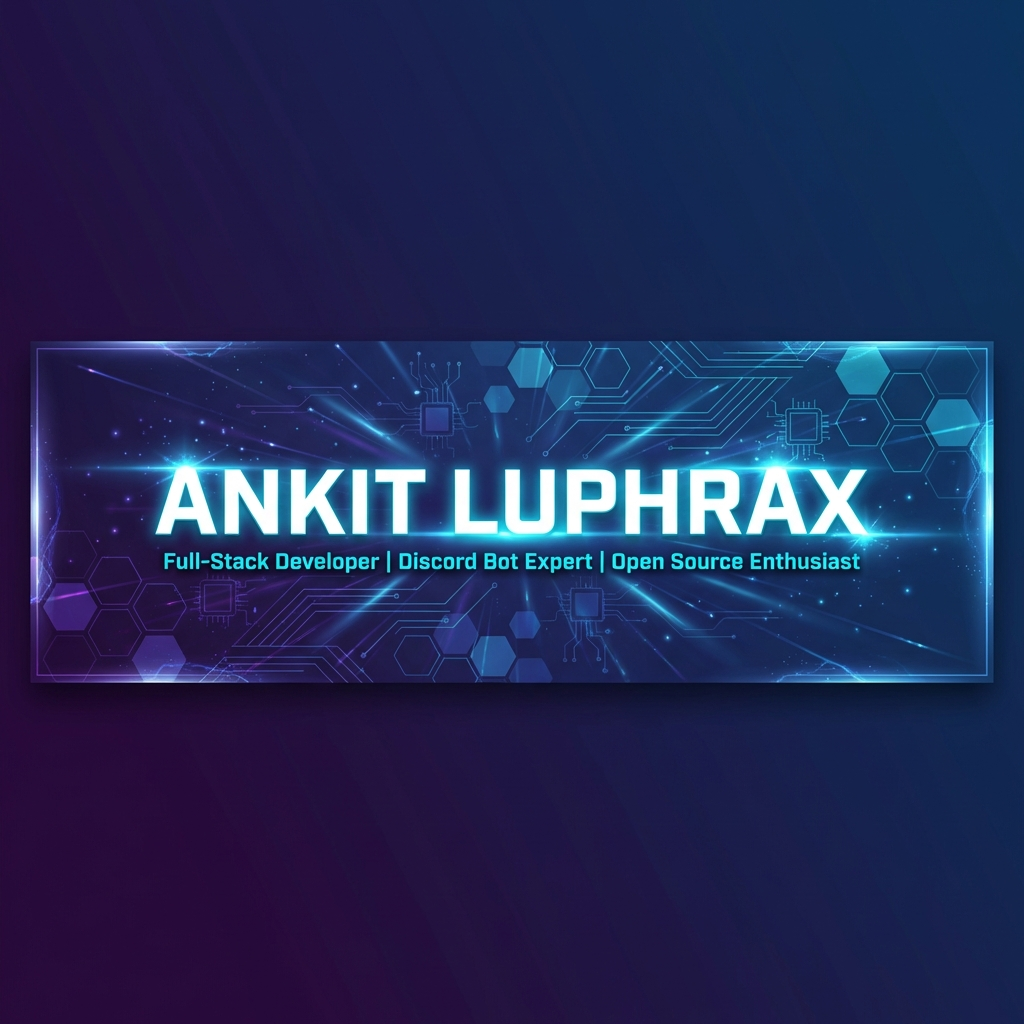
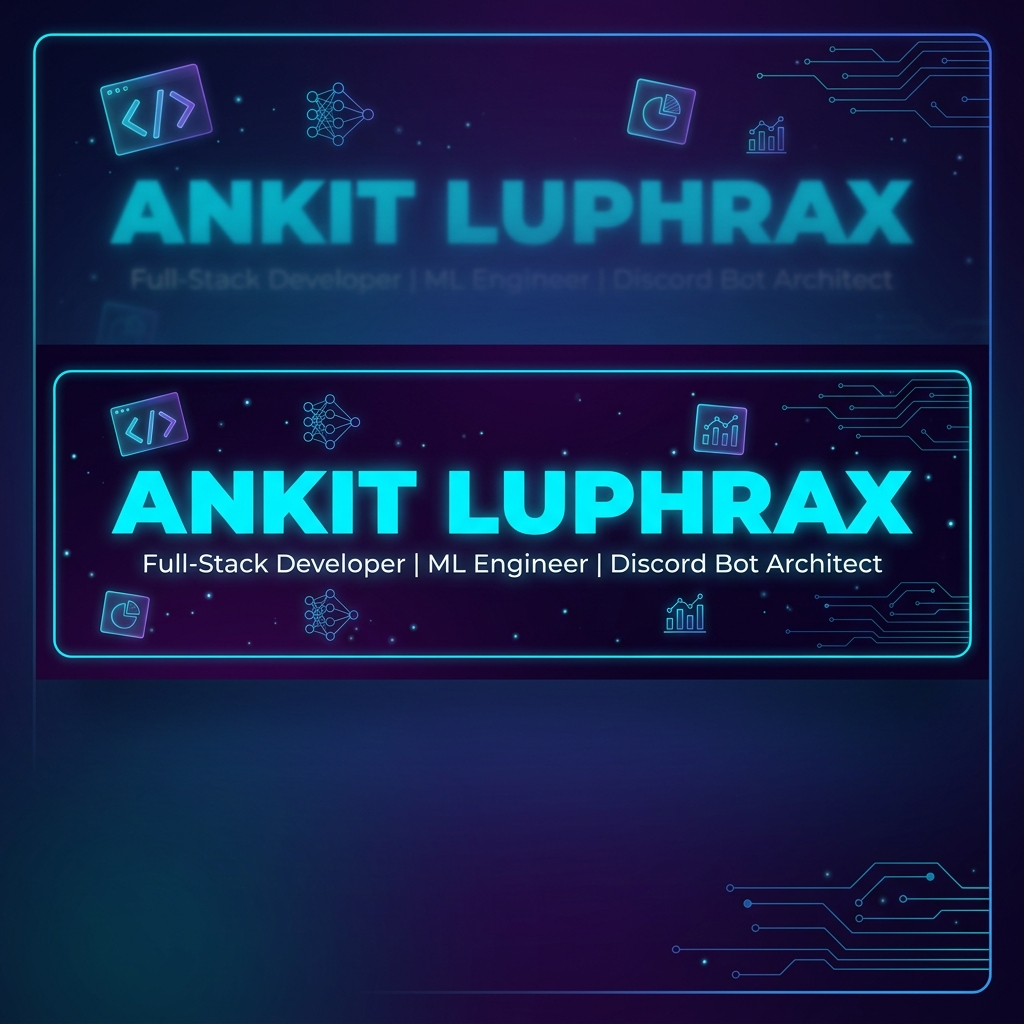
upgrade: new header, ML achievements, data science projects & 2026 roadmap

diff --git a/README.md b/README.md
@@ -4,7 +4,7 @@
 
 <div align="center">
   
-  [![Typing SVG](https://readme-typing-svg.demolab.com?font=Fira+Code&weight=600&size=28&duration=3000&pause=1000&color=00D9FF&center=true&vCenter=true&width=600&lines=Full-Stack+Developer+💻;Discord+Bot+Expert+🤖;Open+Source+Enthusiast+🚀;Building+Amazing+Things!+✨)](https://git.io/typing-svg)
+  [![Typing SVG](https://readme-typing-svg.demolab.com?font=Fira+Code&weight=600&size=28&duration=3000&pause=1000&color=00D9FF&center=true&vCenter=true&width=700&lines=Full-Stack+Developer+%F0%9F%92%BB;ML+Engineer+%F0%9F%A7%A0;Discord+Bot+Architect+%F0%9F%A4%96;Data+Science+Explorer+%F0%9F%93%8A;Building+the+Future+with+Code+%E2%9C%A8)](https://git.io/typing-svg)
   
   <p>
     <a href="https://github.com/AnkitLuphraX"><img src="https://img.shields.io/github/followers/AnkitLuphraX?label=Followers&style=for-the-badge&color=00D9FF&labelColor=1a0b2e" alt="GitHub Followers"/></a>
@@ -18,29 +18,80 @@
 
 ## 👨💻 About Me
 
-```javascript
-const ankit = {
-    location: "India 🇮🇳",
-    role: "Full-Stack Developer & Discord Bot Specialist",
-    currentFocus: "Building enterprise-grade Discord bots",
-    learning: ["Advanced Node.js", "System Architecture", "Cloud Technologies"],
-    hobbies: ["Coding", "Problem Solving", "Open Source"],
-    funFact: "I turn coffee into code ☕ → 💻",
-    
-    workingOn: {
-        project: "Next-Gen Discord Bot System",
-        technologies: ["Discord.js", "Node.js", "MongoDB"]
-    },
-    
-    askMeAbout: ["Discord Bots", "Web Dev", "APIs", "Databases"]
-};
+```python
+class AnkitLuphraX:
+    def __init__(self):
+        self.location = "India 🇮🇳"
+        self.roles = [
+            "Full-Stack Developer",
+            "ML Engineer",
+            "Discord Bot Architect"
+        ]
+        self.current_focus = "Machine Learning & Intelligent Systems"
+        self.learning = [
+            "Deep Learning", "MLOps",
+            "Cloud Architecture", "System Design"
+        ]
+        
+        self.active_projects = {
+            "quindent": "Enterprise-grade Discord Bot System",
+            "data_science": "Data Cleaning & Predictive Modeling",
+            "web": "Modern Web Applications"
+        }
+        
+    def say_hi(self):
+        print("Thanks for dropping by! Let's build something epic 🚀")
+
+
+me = AnkitLuphraX()
+me.say_hi()
 ```
 
-- 🔭 Currently working on **advanced Discord bot systems**
-- 🌱 Learning **cloud deployment & scalable architectures**
-- 💬 Ask me about **Discord.js, Node.js, MongoDB, Web Development**
-- 👯 Looking to collaborate on **open source projects**
-- ⚡ Fun fact: **I love automating everything!**
+- 🔭 Currently working on **ML pipelines & enterprise Discord bots**
+- 🧠 Expanding into **Machine Learning, Data Science & AI**
+- 🌱 Learning **scikit-learn, TensorFlow & cloud deployment**
+- 💬 Ask me about **Discord.js, Python, ML, Node.js, Web Dev**
+- 👯 Looking to collaborate on **open source & data-driven projects**
+- ⚡ Fun fact: **I automate everything — even my learning!**
+
+---
+
+## 🏆 Recent Achievements & Milestones
+
+<div align="center">
+
+<table>
+<tr>
+<td width="50%">
+
+### 📊 Data Science & ML
+- ✅ Completed **Data Cleaning & Visualization** project
+  - Cleaned 1500+ records with missing values, duplicates & outliers
+  - Built 10+ professional charts & interactive dashboards
+- ✅ Built **Predictive ML Models** for customer churn
+  - Trained Logistic Regression, Decision Tree & Random Forest
+  - Achieved **70.2% AUC** with ROC curve analysis
+  - Created confusion matrices, feature importance & PR curves
+- 🧪 Hands-on with Pandas, NumPy, Matplotlib, Seaborn, Scikit-learn
+
+</td>
+<td width="50%">
+
+### 🤖 Discord Bot Engineering
+- ✅ Built **Quindent** — enterprise-grade Discord bot
+  - Advanced Antinuke security system with modular config
+  - God-Tier music system with Poru engine + 24/7 mode
+  - Ticket system, moderation suite & giveaway system
+  - Canvas-rendered "Now Playing" cards
+- ✅ Separated Quindent Music into standalone bot
+- ✅ Built **premium landing page** with live stats API
+- 🔧 Turso database integration for persistence
+
+</td>
+</tr>
+</table>
+
+</div>
 
 ---
 
@@ -48,36 +99,41 @@ const ankit = {
 
 <div align="center">
 
-### Languages
+### 💻 Languages
 ![JavaScript](https://img.shields.io/badge/JavaScript-F7DF1E?style=for-the-badge&logo=javascript&logoColor=black)
-![TypeScript](https://img.shields.io/badge/TypeScript-3178C6?style=for-the-badge&logo=typescript&logoColor=white)
 ![Python](https://img.shields.io/badge/Python-3776AB?style=for-the-badge&logo=python&logoColor=white)
+![TypeScript](https://img.shields.io/badge/TypeScript-3178C6?style=for-the-badge&logo=typescript&logoColor=white)
 ![HTML5](https://img.shields.io/badge/HTML5-E34F26?style=for-the-badge&logo=html5&logoColor=white)
 ![CSS3](https://img.shields.io/badge/CSS3-1572B6?style=for-the-badge&logo=css3&logoColor=white)
 
-### Frameworks & Libraries
+### ⚙ Frameworks & Libraries
 ![Node.js](https://img.shields.io/badge/Node.js-339933?style=for-the-badge&logo=node.js&logoColor=white)
 ![Discord.js](https://img.shields.io/badge/Discord.js-5865F2?style=for-the-badge&logo=discord&logoColor=white)
 ![Express.js](https://img.shields.io/badge/Express.js-000000?style=for-the-badge&logo=express&logoColor=white)
 ![React](https://img.shields.io/badge/React-61DAFB?style=for-the-badge&logo=react&logoColor=black)
 ![Next.js](https://img.shields.io/badge/Next.js-000000?style=for-the-badge&logo=next.js&logoColor=white)
 
-### Databases & Tools
+### 🧠 Data Science & ML
+![Pandas](https://img.shields.io/badge/Pandas-150458?style=for-the-badge&logo=pandas&logoColor=white)
+![NumPy](https://img.shields.io/badge/NumPy-013243?style=for-the-badge&logo=numpy&logoColor=white)
+![Scikit--Learn](https://img.shields.io/badge/Scikit--Learn-F7931E?style=for-the-badge&logo=scikit-learn&logoColor=white)
+![Matplotlib](https://img.shields.io/badge/Matplotlib-11557C?style=for-the-badge&logo=matplotlib&logoColor=white)
+![Seaborn](https://img.shields.io/badge/Seaborn-3776AB?style=for-the-badge&logo=python&logoColor=white)
+
+### 🗄 Databases
 ![MongoDB](https://img.shields.io/badge/MongoDB-47A248?style=for-the-badge&logo=mongodb&logoColor=white)
 ![MySQL](https://img.shields.io/badge/MySQL-4479A1?style=for-the-badge&logo=mysql&logoColor=white)
 ![PostgreSQL](https://img.shields.io/badge/PostgreSQL-4169E1?style=for-the-badge&logo=postgresql&logoColor=white)
 ![Redis](https://img.shields.io/badge/Redis-DC382D?style=for-the-badge&logo=redis&logoColor=white)
+![Turso](https://img.shields.io/badge/Turso-4FF8D2?style=for-the-badge&logo=turso&logoColor=black)
 
-### DevOps & Cloud
+### 🚀 DevOps & Tools
 ![Git](https://img.shields.io/badge/Git-F05032?style=for-the-badge&logo=git&logoColor=white)
 ![GitHub](https://img.shields.io/badge/GitHub-181717?style=for-the-badge&logo=github&logoColor=white)
 ![Docker](https://img.shields.io/badge/Docker-2496ED?style=for-the-badge&logo=docker&logoColor=white)
 ![AWS](https://img.shields.io/badge/AWS-232F3E?style=for-the-badge&logo=amazon-aws&logoColor=white)
-
-### Development Tools
 ![VS Code](https://img.shields.io/badge/VS%20Code-007ACC?style=for-the-badge&logo=visual-studio-code&logoColor=white)
 ![Postman](https://img.shields.io/badge/Postman-FF6C37?style=for-the-badge&logo=postman&logoColor=white)
-![npm](https://img.shields.io/badge/npm-CB3837?style=for-the-badge&logo=npm&logoColor=white)
 
 </div>
 
@@ -91,10 +147,12 @@ const ankit = {
 |-------|-------|-------------|
 | **JavaScript/Node.js** | ⭐⭐⭐⭐⭐ | Expert (90%) |
 | **Discord.js** | ⭐⭐⭐⭐⭐ | Expert (95%) |
+| **Python** | ⭐⭐⭐⭐⭐ | Advanced (85%) |
+| **Data Science (Pandas/Matplotlib)** | ⭐⭐⭐⭐ | Advanced (80%) |
+| **Machine Learning (Scikit-learn)** | ⭐⭐⭐⭐ | Proficient (75%) |
 | **MongoDB** | ⭐⭐⭐⭐⭐ | Advanced (85%) |
 | **React/Next.js** | ⭐⭐⭐⭐ | Advanced (80%) |
 | **TypeScript** | ⭐⭐⭐⭐ | Proficient (75%) |
-| **Python** | ⭐⭐⭐⭐ | Proficient (70%) |
 
 </div>
 
@@ -106,44 +164,88 @@ const ankit = {
   
 [![GitHub Stats](https://github-readme-stats-sigma-five.vercel.app/api?username=AnkitLuphraX&show_icons=true&theme=tokyonight&hide_border=true&bg_color=1a0b2e&title_color=00D9FF&icon_color=00D9FF&text_color=ffffff&count_private=true&include_all_commits=true)](https://github.com/AnkitLuphraX)
 
-[![Top Languages](https://github-readme-stats-sigma-five.vercel.app/api/top-langs/?username=AnkitLuphraX&layout=compact&theme=tokyonight&hide_border=true&bg_color=1a0b2e&title_color=00D9FF&text_color=ffffff&langs_count=8)](https://github.com/AnkitLuphraX)
+[![GitHub Streak](https://streak-stats.demolab.com?user=AnkitLuphraX&theme=tokyonight&hide_border=true&background=1a0b2e&ring=00D9FF&fire=FF6B6B&currStreakLabel=00D9FF)](https://git.io/streak-stats)
+
+[![Top Languages](https://github-readme-stats-sigma-five.vercel.app/api/top-langs/?username=AnkitLuphraX&layout=compact&theme=tokyonight&hide_border=true&bg_color=1a0b2e&title_color=00D9FF&text_color=ffffff&langs_count=10)](https://github.com/AnkitLuphraX)
 
 </div>
 
 ---
 
-## 🔥 Contribution Stats
+## 🔥 Contribution Activity
 
 <div align="center">
 
+![Contribution Graph](https://github-readme-activity-graph.vercel.app/graph?username=AnkitLuphraX&theme=tokyo-night&hide_border=true&bg_color=1a0b2e&color=00D9FF&line=00D9FF&point=ffffff)
+
+</div>
+
+---
+
+## 🚀 Featured Projects
+
+<div align="center">
+
+### 📊 Data Science & Machine Learning
+
+[![Data Cleaning](https://img.shields.io/badge/📊_Data_Cleaning_&_Visualization-View_Project-00D9FF?style=for-the-badge)](https://github.com/AnkitLuphraX/data-cleaning-visualization)
+[![ML Prediction](https://img.shields.io/badge/🧠_Predictive_ML_Modeling-View_Project-FF6B6B?style=for-the-badge)](https://github.com/AnkitLuphraX/predictive-modeling-ml)
+
 <table>
 <tr>
-<td>
+<td width="50%">
 
-**📅 GitHub Activity**
-- 🎯 Total Commits (2026): Growing daily
-- ⭐ Stars Earned: Building reputation
-- 🔄 Pull Requests: Active contributor
-- 📦 Repositories: Quality over quantity
+**🧹 Data Cleaning & Visualization**
+- E-commerce dataset with 1500+ records
+- Handled missing values, duplicates & outliers
+- 10 chart types + combined dashboard
+- `Python` `Pandas` `Matplotlib` `Seaborn`
 
 </td>
-<td>
+<td width="50%">
 
-**🏆 Achievements**
-- 💻 Code Enthusiast
-- 🚀 Early Adopter
-- 🌟 Open Source Supporter
-- 📚 Continuous Learner
+**🧠 Predictive Modeling (ML)**
+- Customer churn prediction system
+- 3 algorithms: LogReg, Decision Tree, Random Forest
+- ROC curves, confusion matrices, feature importance
+- `Python` `Scikit-learn` `NumPy`
 
 </td>
 </tr>
 </table>
 
-</div>
+### 🤖 Discord Bot Engineering
 
-<div align="center">
-  
-![Contribution Graph](https://github-readme-activity-graph.vercel.app/graph?username=AnkitLuphraX&theme=tokyo-night&hide_border=true&bg_color=1a0b2e&color=00D9FF&line=00D9FF&point=ffffff)
+[![Quindent Bot](https://img.shields.io/badge/🤖_Quindent_Bot_System-Enterprise_Grade-5865F2?style=for-the-badge&logo=discord&logoColor=white)](https://github.com/AnkitLuphraX)
+[![Quindent Music](https://img.shields.io/badge/🎵_Quindent_Music-Standalone_Bot-FF6B6B?style=for-the-badge&logo=discord&logoColor=white)](https://github.com/AnkitLuphraX)
+
+<table>
+<tr>
+<td width="50%">
+
+**🛡 Quindent — Security & Moderation**
+- Advanced Antinuke system with per-module config
+- Role-based access: Owner, ExtraOwner, Trusted, Whitelist
+- Ticket system, giveaways, utility commands
+- `Discord.js` `Node.js` `Turso DB`
+
+</td>
+<td width="50%">
+
+**🎵 Quindent Music — Standalone**
+- Poru-powered music engine with 24/7 mode
+- Canvas-rendered "Now Playing" cards
+- Search interface, AI song recommendations
+- Premium landing page with live stats API
+
+</td>
+</tr>
+</table>
+
+### 🌐 Web Development
+
+[![Portfolio](https://img.shields.io/badge/🌐_Web_Portfolio-View_Project-00D9FF?style=for-the-badge&logo=react&logoColor=white)](https://github.com/AnkitLuphraX)
+[![Bot Dashboard](https://img.shields.io/badge/📊_Bot_Dashboard-View_Project-00D9FF?style=for-the-badge&logo=next.js&logoColor=white)](https://github.com/AnkitLuphraX)
 
 </div>
 
@@ -154,31 +256,32 @@ const ankit = {
 <div align="center">
 
 ```text
-💻 Most Active Time: Evenings & Weekends
-🔥 Current Streak: Building daily
-📊 Weekly Commits: Consistent contributor
-🎯 Focus Areas: Discord Bots, Web Development
+💻 Most Active Time    : Evenings & Late Nights
+🔥 Current Focus       : ML Pipelines + Discord Bots
+📊 Weekly Activity     : 5-7 days/week active coding
+🧠 Learning Now        : Deep Learning, MLOps, TensorFlow
+🛠 Editor of Choice    : VS Code + Jupyter
+🎯 2026 Projects Done  : 4+ major projects shipped
 ```
 
 </div>
 
 ---
 
-## 🚀 Featured Projects
+## 🎯 2026 Roadmap
 
 <div align="center">
 
-### 🤖 Discord Bot Projects
-*Building next-generation Discord bots with advanced features*
-
-[![Discord Bot](https://img.shields.io/badge/Enterprise_Bot-View_Project-00D9FF?style=for-the-badge&logo=discord&logoColor=white)](https://github.com/AnkitLuphraX)
-[![Ticket System](https://img.shields.io/badge/Ticket_System-View_Project-00D9FF?style=for-the-badge&logo=discord&logoColor=white)](https://github.com/AnkitLuphraX)
-
-### 🌐 Web Development
-*Creating beautiful and functional web applications*
-
-[![Portfolio](https://img.shields.io/badge/Portfolio-View_Project-00D9FF?style=for-the-badge&logo=react&logoColor=white)](https://github.com/AnkitLuphraX)
-[![Dashboard](https://img.shields.io/badge/Dashboard-View_Project-00D9FF?style=for-the-badge&logo=next.js&logoColor=white)](https://github.com/AnkitLuphraX)
+| Quarter | Goals | Status |
+|---------|-------|--------|
+| **Q1** | Launch Quindent Bot ecosystem | ✅ Completed |
+| **Q1** | Build Antinuke security suite | ✅ Completed |
+| **Q2** | Data Cleaning & Visualization project | ✅ Completed |
+| **Q2** | Predictive ML Modeling project | ✅ Completed |
+| **Q2** | Quindent Music standalone + website | ✅ Completed |
+| **Q3** | Deep Learning & Neural Networks | 🔄 In Progress |
+| **Q3** | Contribute to open source ML projects | 📋 Planned |
+| **Q4** | Full-stack AI-powered web application | 📋 Planned |
 
 </div>
 
@@ -189,9 +292,9 @@ const ankit = {
 <div align="center">
   
   [![GitHub](https://img.shields.io/badge/GitHub-AnkitLuphraX-181717?style=for-the-badge&logo=github&logoColor=white)](https://github.com/AnkitLuphraX)
-  [![Discord](https://img.shields.io/badge/Discord-Add_Me-5865F2?style=for-the-badge&logo=discord&logoColor=white)]([https://discord.com](https://discord.com/users/1139925253489954969))
+  [![Discord](https://img.shields.io/badge/Discord-Add_Me-5865F2?style=for-the-badge&logo=discord&logoColor=white)](https://discord.com/users/1139925253489954969)
   [![LinkedIn](https://img.shields.io/badge/LinkedIn-Connect-0A66C2?style=for-the-badge&logo=linkedin&logoColor=white)](https://linkedin.com)
-  [![Email](https://img.shields.io/badge/Email-Contact_Me-EA4335?style=for-the-badge&logo=gmail&logoColor=white)](aquaman.3437@gmail.com)
+  [![Email](https://img.shields.io/badge/Email-Contact_Me-EA4335?style=for-the-badge&logo=gmail&logoColor=white)](mailto:aquaman.3437@gmail.com)
   
 </div>
 
@@ -207,24 +310,14 @@ const ankit = {
 
 ---
 
-## 🎯 Current Goals for 2026
-
-- 🚀 Contribute to more open source projects
-- 📚 Master cloud architecture and DevOps
-- 🤝 Collaborate with developers worldwide
-- 💼 Build impactful projects that solve real problems
-- 📖 Share knowledge through technical writing
-
----
-
 <div align="center">
   
   ### ✨ Thanks for visiting! Let's build something amazing together! ✨
   
   ![Made with Love](https://img.shields.io/badge/Made%20with-❤-red?style=flat-square)
+  ![Python](https://img.shields.io/badge/Powered%20by-Python-3776AB?style=flat-square&logo=python&logoColor=white)
+  ![JavaScript](https://img.shields.io/badge/Powered%20by-JavaScript-F7DF1E?style=flat-square&logo=javascript&logoColor=black)
   
   <img src="https://capsule-render.vercel.app/api?type=waving&color=gradient&customColorList=6,11,20&height=100&section=footer&text=Happy%20Coding!&fontSize=40&fontColor=fff&animation=twinkling" width="100%"/>
   
 </div>
-
-
